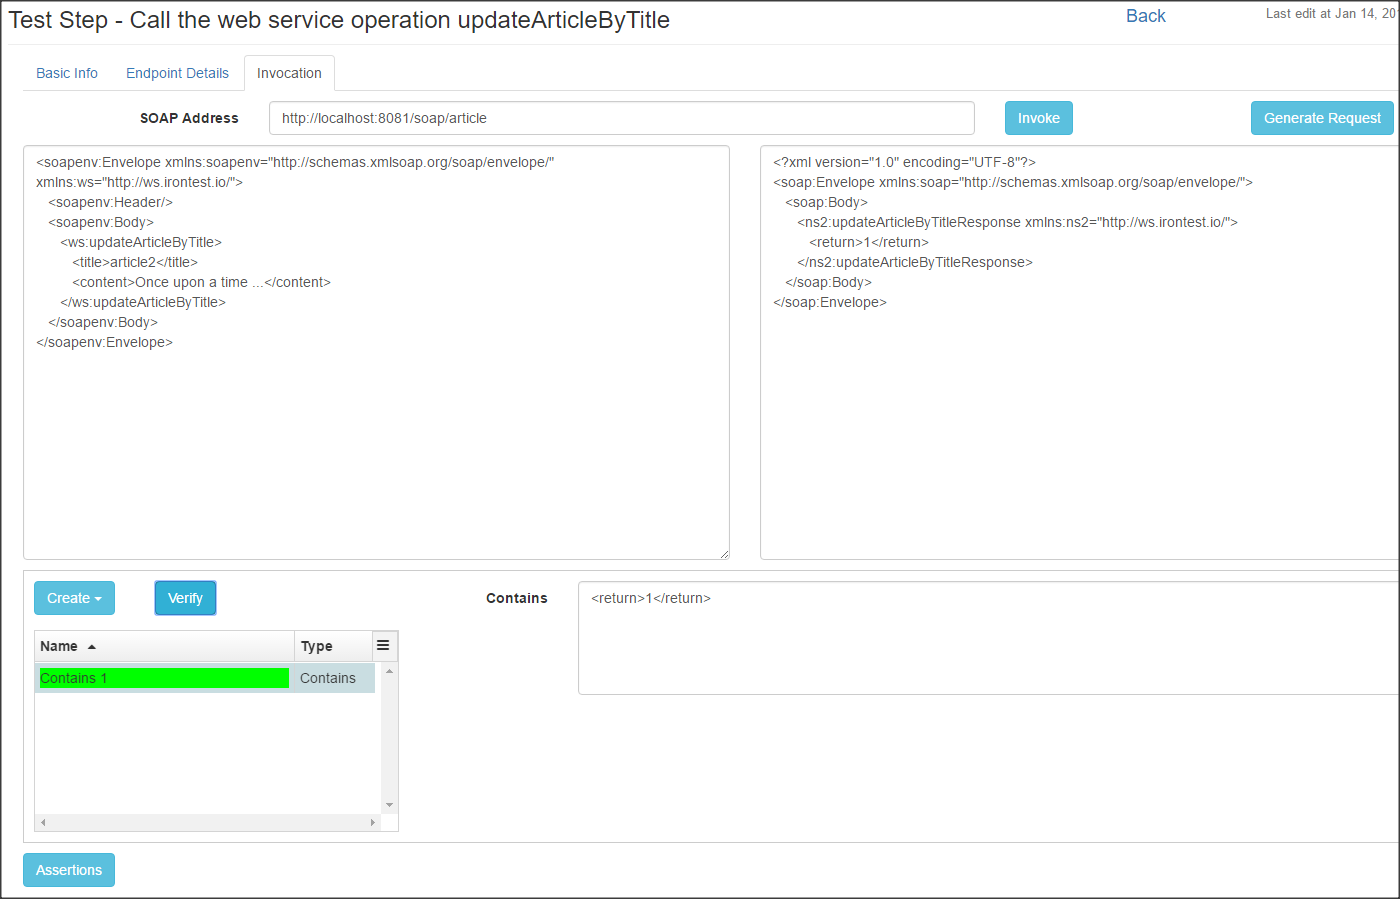
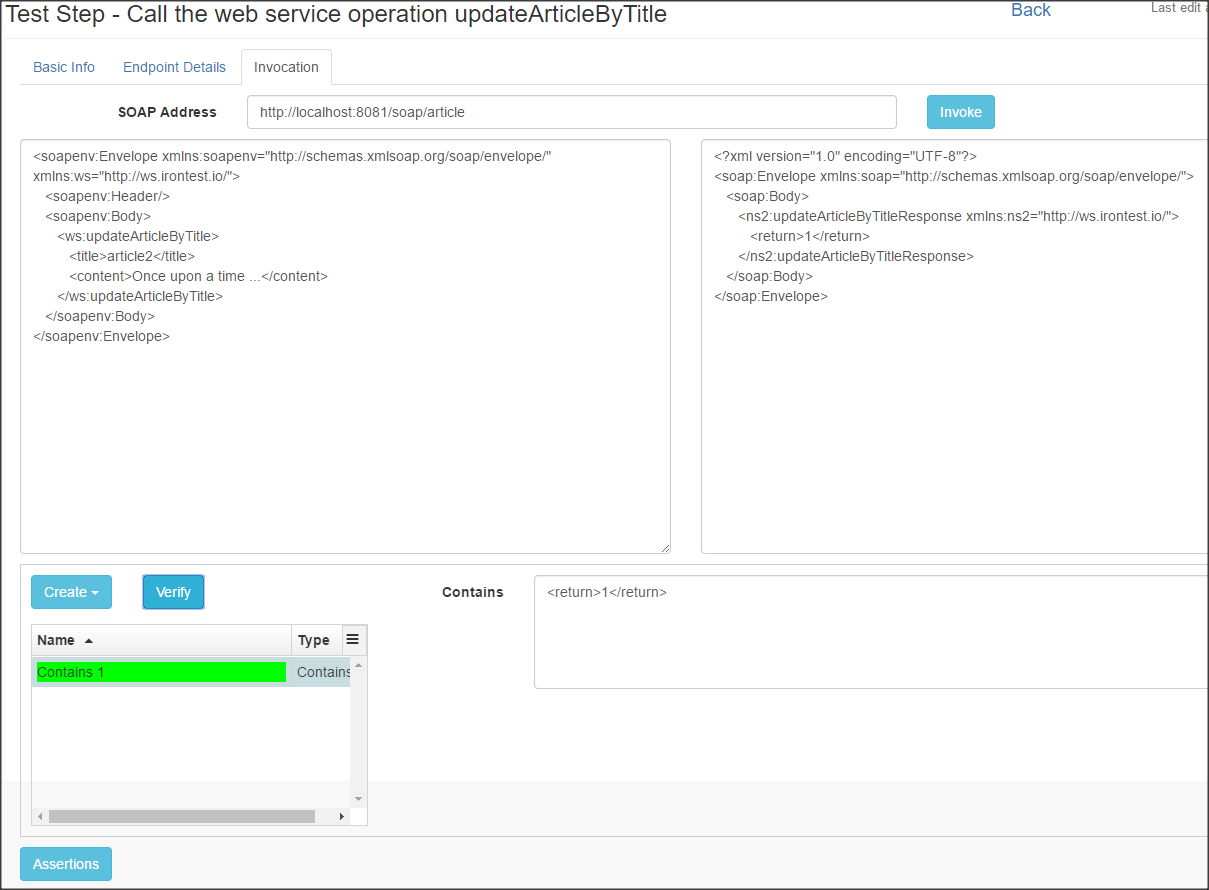
screenshot update

diff --git a/README.md b/README.md
@@ -115,7 +115,7 @@ Click the name of the second test step to open its edit view.
 
 Under the Endpoint Details tab, enter SOAP Address `http://localhost:8081/soap/article` which is the address of the sample Article web service bundled with Iron Test. Ignore Username and Password fields as they are not used in this test case.
 
-Under the Invocation tab, click Generate Request button. Click Load button to load the WSDL, select WSDL Operation `updateArticleByTitle`, and click OK. A sample request is generated.
+Under the Invocation tab, click the menu dropdown button and select Generate Request. Click Load button to load the WSDL, select WSDL Operation `updateArticleByTitle`, and click OK. A sample request is generated.
      
 Modify the request for updating article2. Click the Invoke button to try it out and you'll see a SOAP response in the right pane. 
 
